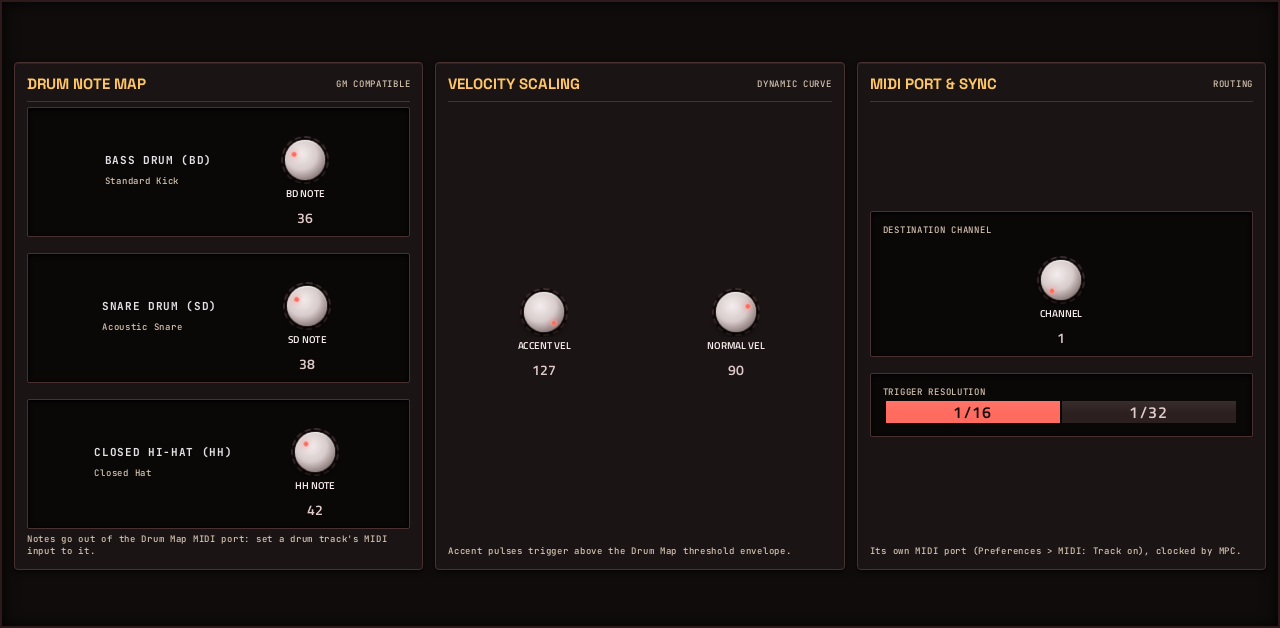
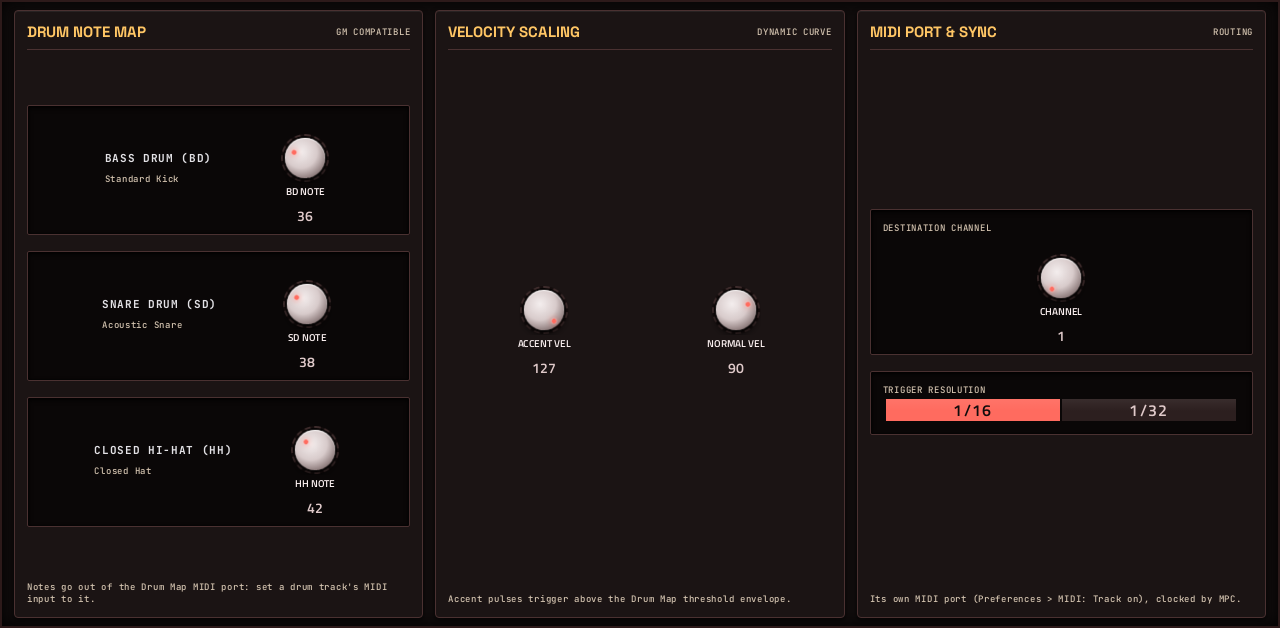
30 screens fill the plugin area (no empty bands above and below)
Rebuilt with the converter's `fill`: 303 (Open303), Aphex, Denis, Elements, Grids, GrooveBank, Hank,
Helm, Hera, Hush One, LibPO32, Marbles (SETUP only), MazeLite, MIDI Player, MonkSynth, Moog
(RaffoSynth: its frame centred), Mr Drums, Mr Hyde, Noisemaker, OB-Xd, PixelWalkers, Plaits, Rampage
(Dual Slope), Rings, Rings FX, SuperArp, Tablor, Verglas, Warps, Wurl. Same controls, parameters and
Q-Link order; only positions moved. Moog's and Noisemaker's hand edits (FILTER switch, BANK, the
shorter scope, design QA moves) carried over. Helm's switch captions now show the parameters' names.

Builds PASSED (offline test), check_skin OK for all 30, screenshots refreshed from the engine's
state. The .so files are the committed ones (only the screens changed). Not on a device yet.

diff --git a/README.md b/README.md
@@ -74,6 +74,9 @@ Use one or the other for this plugin: both register the same plugin (same uid), 
 - `mpc/host/plugin_api_v1.h`: its `offsetof(reserved) == 120` assert is a 64-bit (Move) layout check, so it is skipped on the MPC's 32-bit ARM (the module and adapter share the one header).
 - New touchscreen page from its Google Stitch design (`design/`): the design's artwork as the background, its own knob art, live names and values, and controls the design left out added in its style (see RESKINNING.md).
 - Reports itself to MPC as a **Sequencer** (vst.json `"category"`), so the plugin browser can group it with sequencers instead of synths. Not yet checked on a device; the other sequencers still report Synth.
+- **Full-height screen (2026-10-18)**: the panels fill MPC's 1280 × 628 plugin area. The Stitch conversion used to
+  centre the design at the height it had under its own header and footer (MPC draws its own), which left an empty
+  band above and below.
 
 ## Files
 
